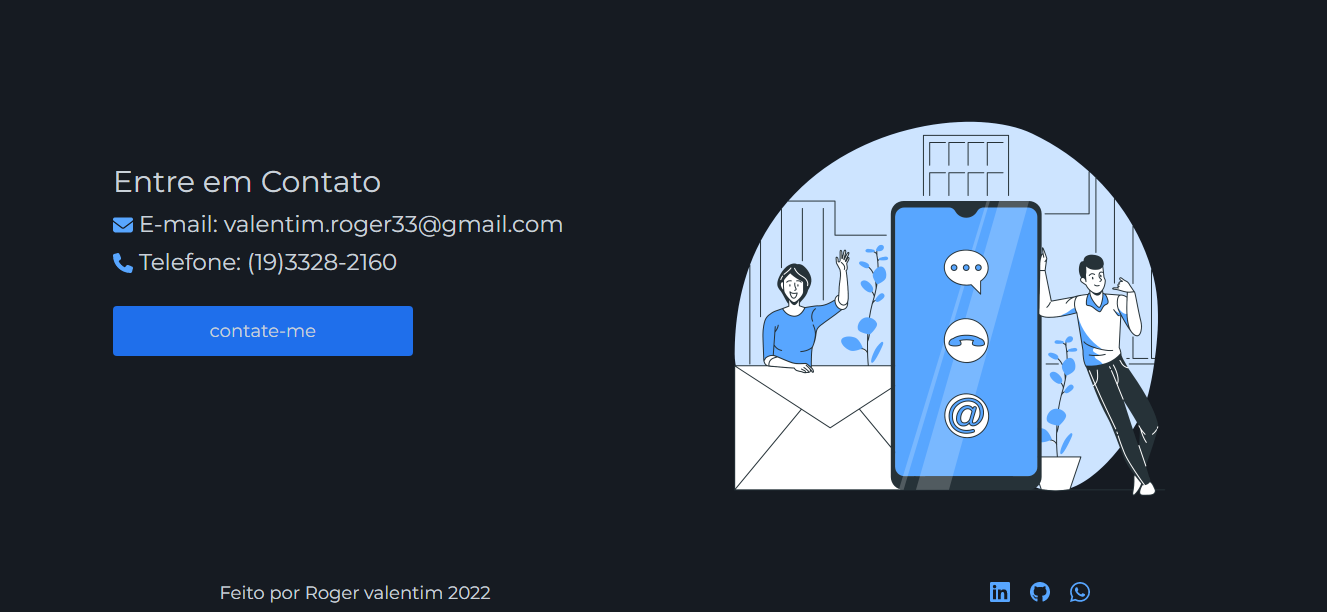
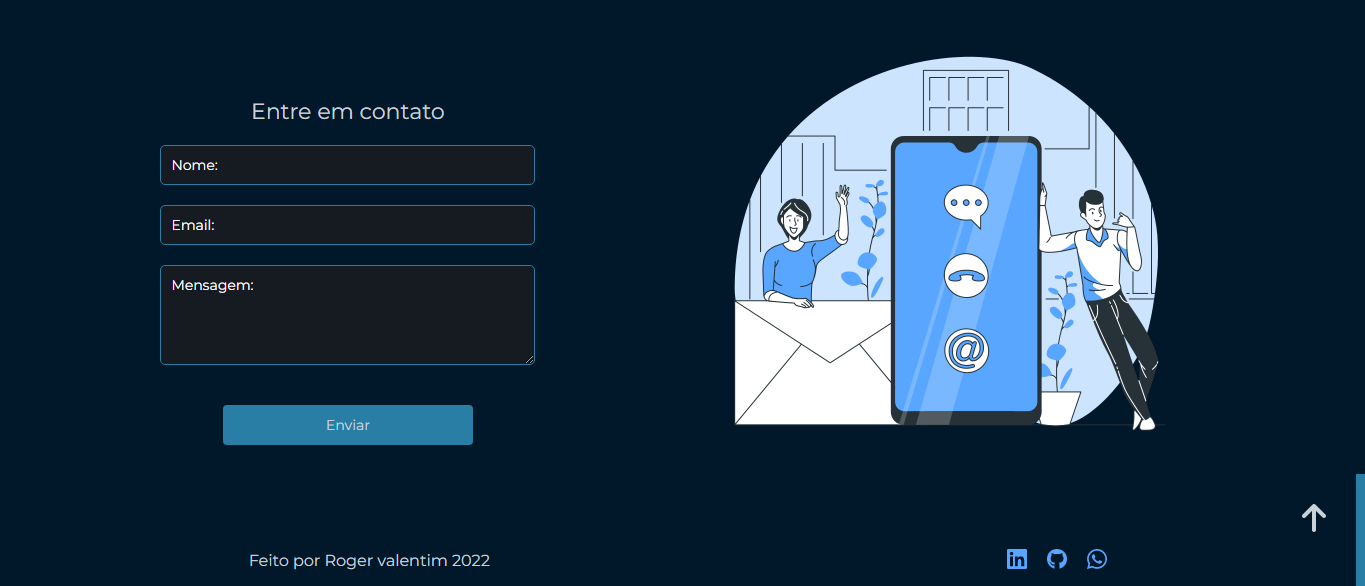
atualizando o readme

diff --git a/src/container/Contato/Contato.css b/src/container/Contato/Contato.css
@@ -95,8 +95,6 @@ form p {
   margin-top: 20px;
 }
 
-
-
 .arrow {
   display: flex;
   justify-content: flex-end;
@@ -135,9 +133,12 @@ form p {
     width: 80%;
   }
 
-  .icon-contact-me {
-    height: 15px;
-  }
+  form {
+    display: flex;
+    flex-direction: column;
+    margin-top: 20px;
+    row-gap: 20px;
+  }  
 
   .contact-text {
     font-size: 16px;

diff --git a/README.md b/README.md
@@ -20,17 +20,17 @@ Meu primeiro portfólio na área de programação
 
 <h1 align="center">Sobre Mim</h1>
 <p align="center">
-  <img alt="portfólio" src=".github/portfolio-sobre-mim.png" width="100%">
+  <img alt="portfólio" src=".github/portfolio-sobre.png" width="100%">
 </p>
 
 <h1 align="center">Tecnologias</h1>
 <p align="center">
-  <img alt="portfólio" src=".github/tecnologias-novas.png" width="100%">
+  <img alt="portfólio" src=".github/portfolio-tecnologias.png" width="100%">
 </p>
 
 <h1 align="center">Projetos</h1>
 <p align="center">
-  <img alt="portfólio" src=".github/projetos_novos.png" width="100%">
+  <img alt="portfólio" src=".github/portfolio-projetos.png" width="100%">
 </p>
 
 <h1 align="center">Contato</h1>
@@ -45,7 +45,9 @@ Esse projeto foi desenvolvido com as seguintes tecnologias:
 
 - HTML e CSS
 - React
+- React Hooks Form
 - [Node e NPM](https://nodejs.org/)
+
 
 ## 💻 Projeto
 
